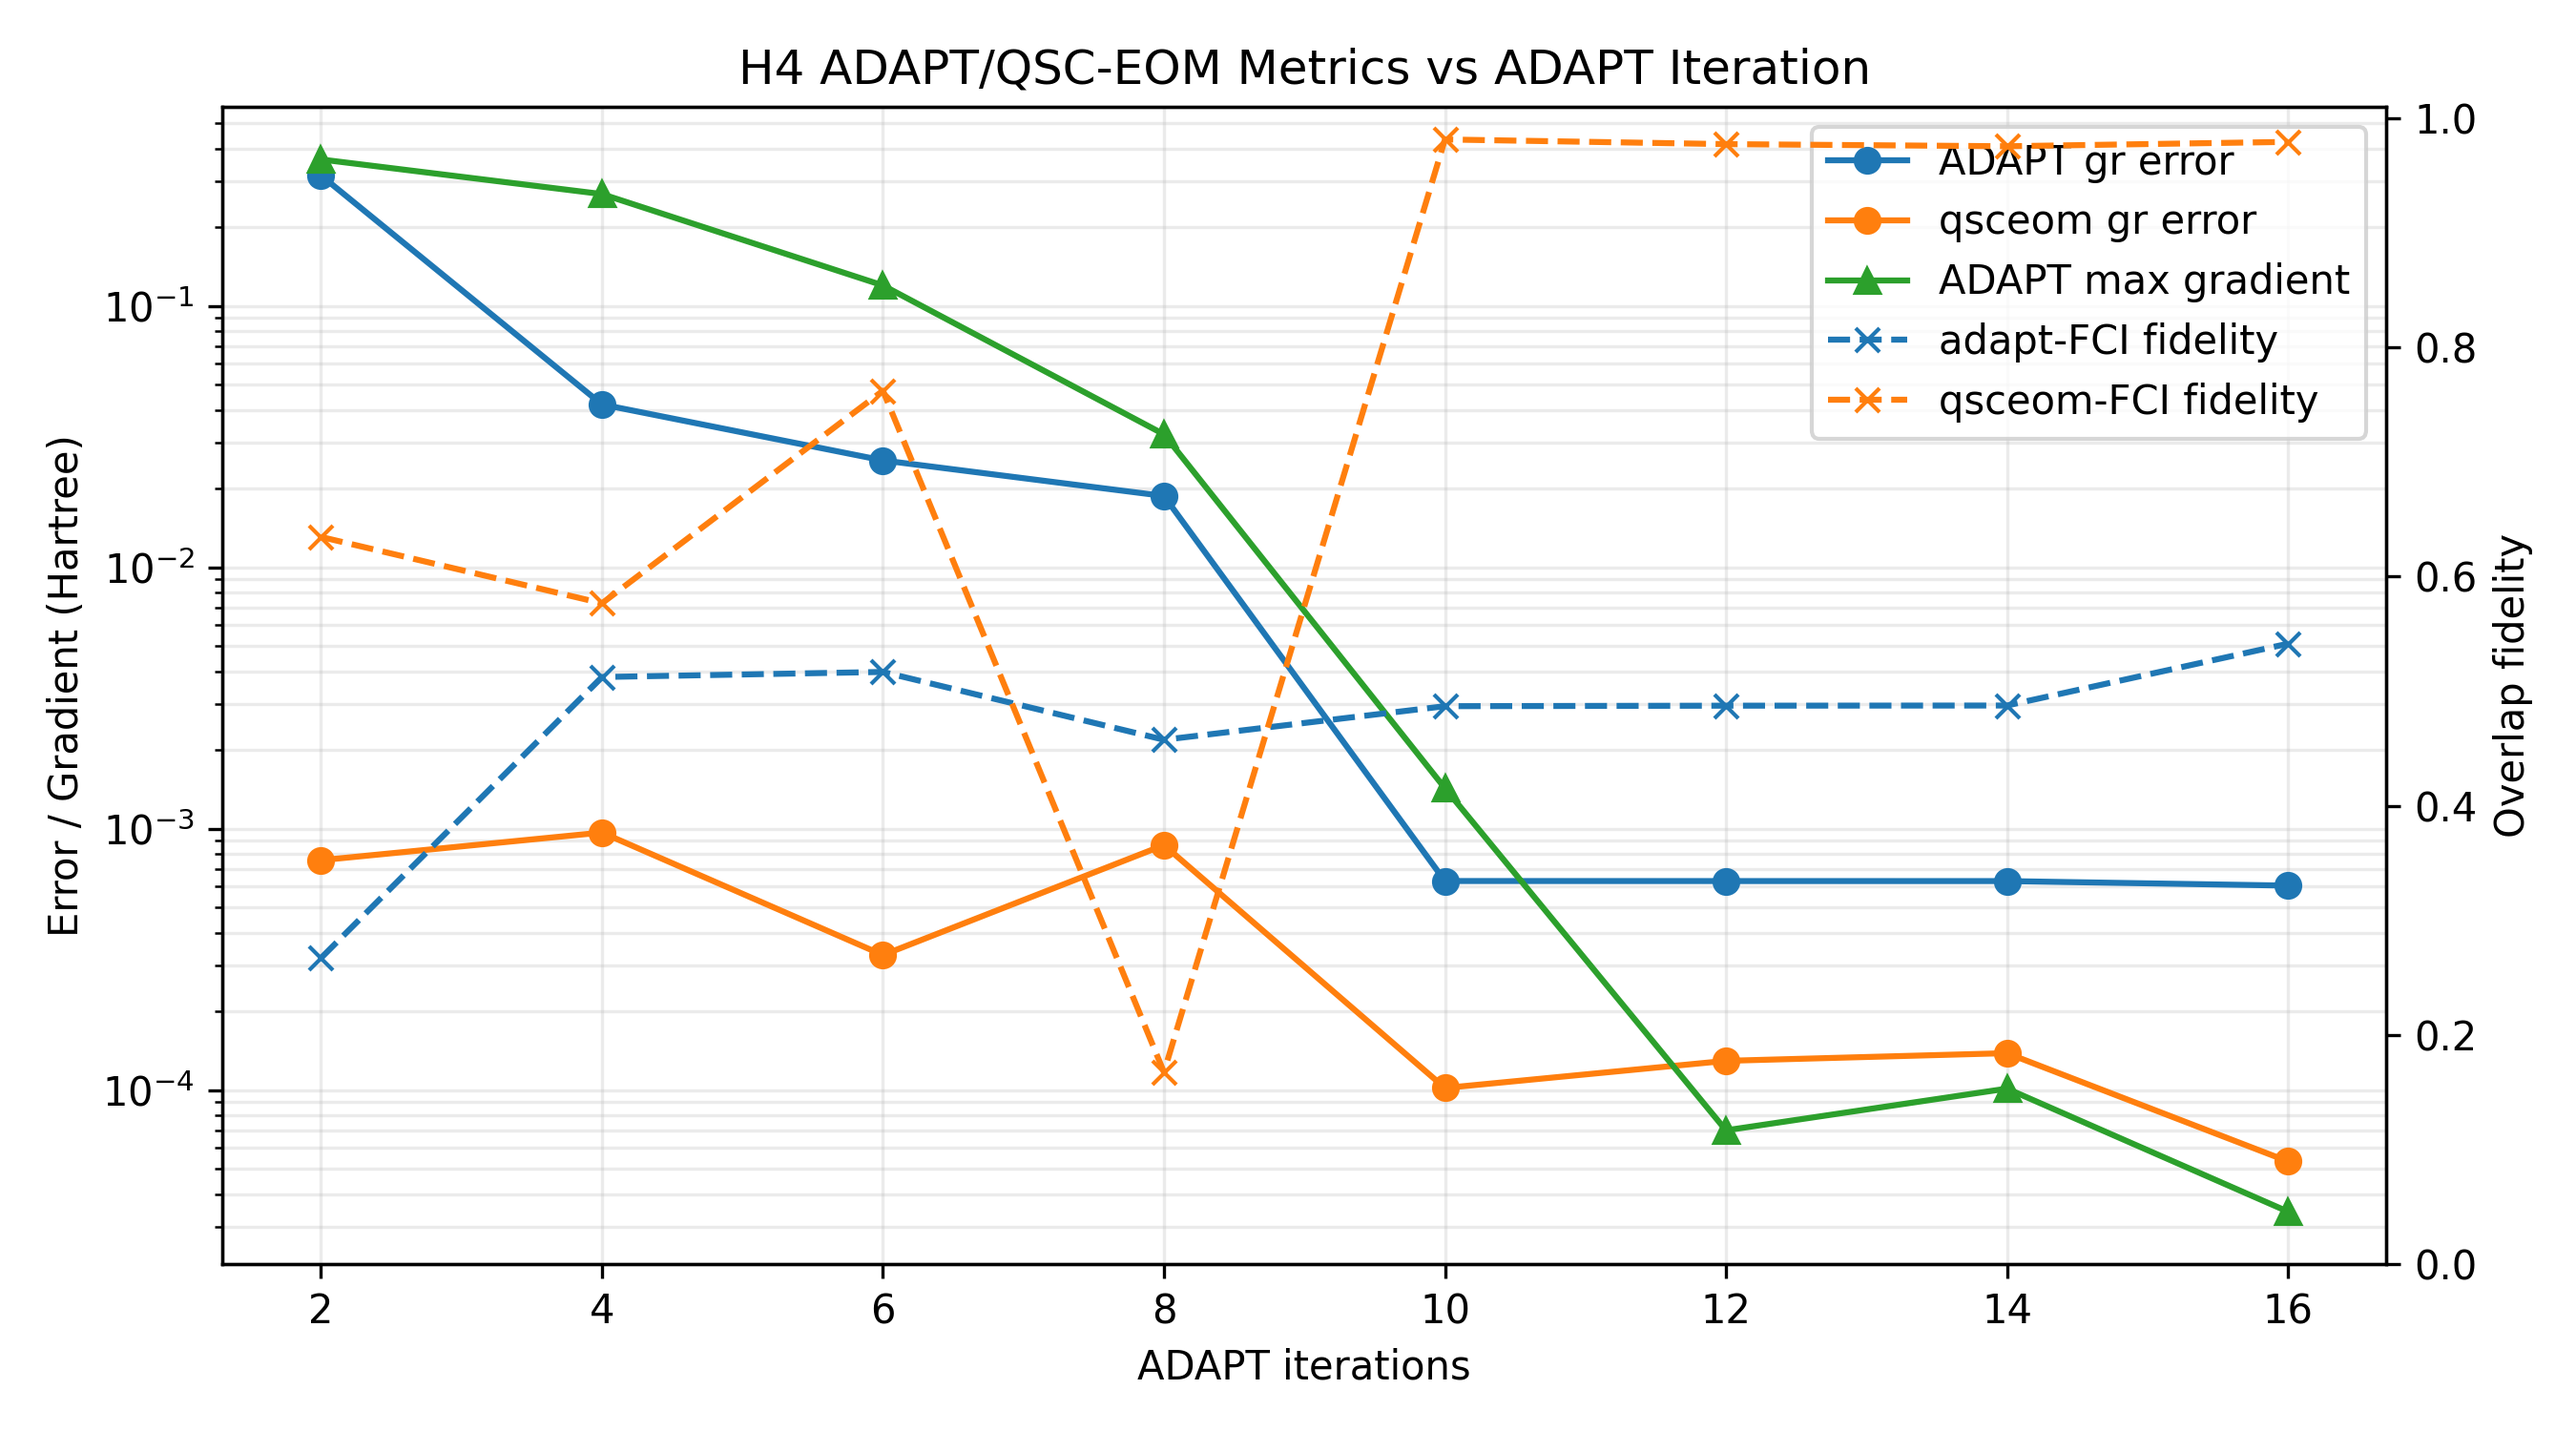
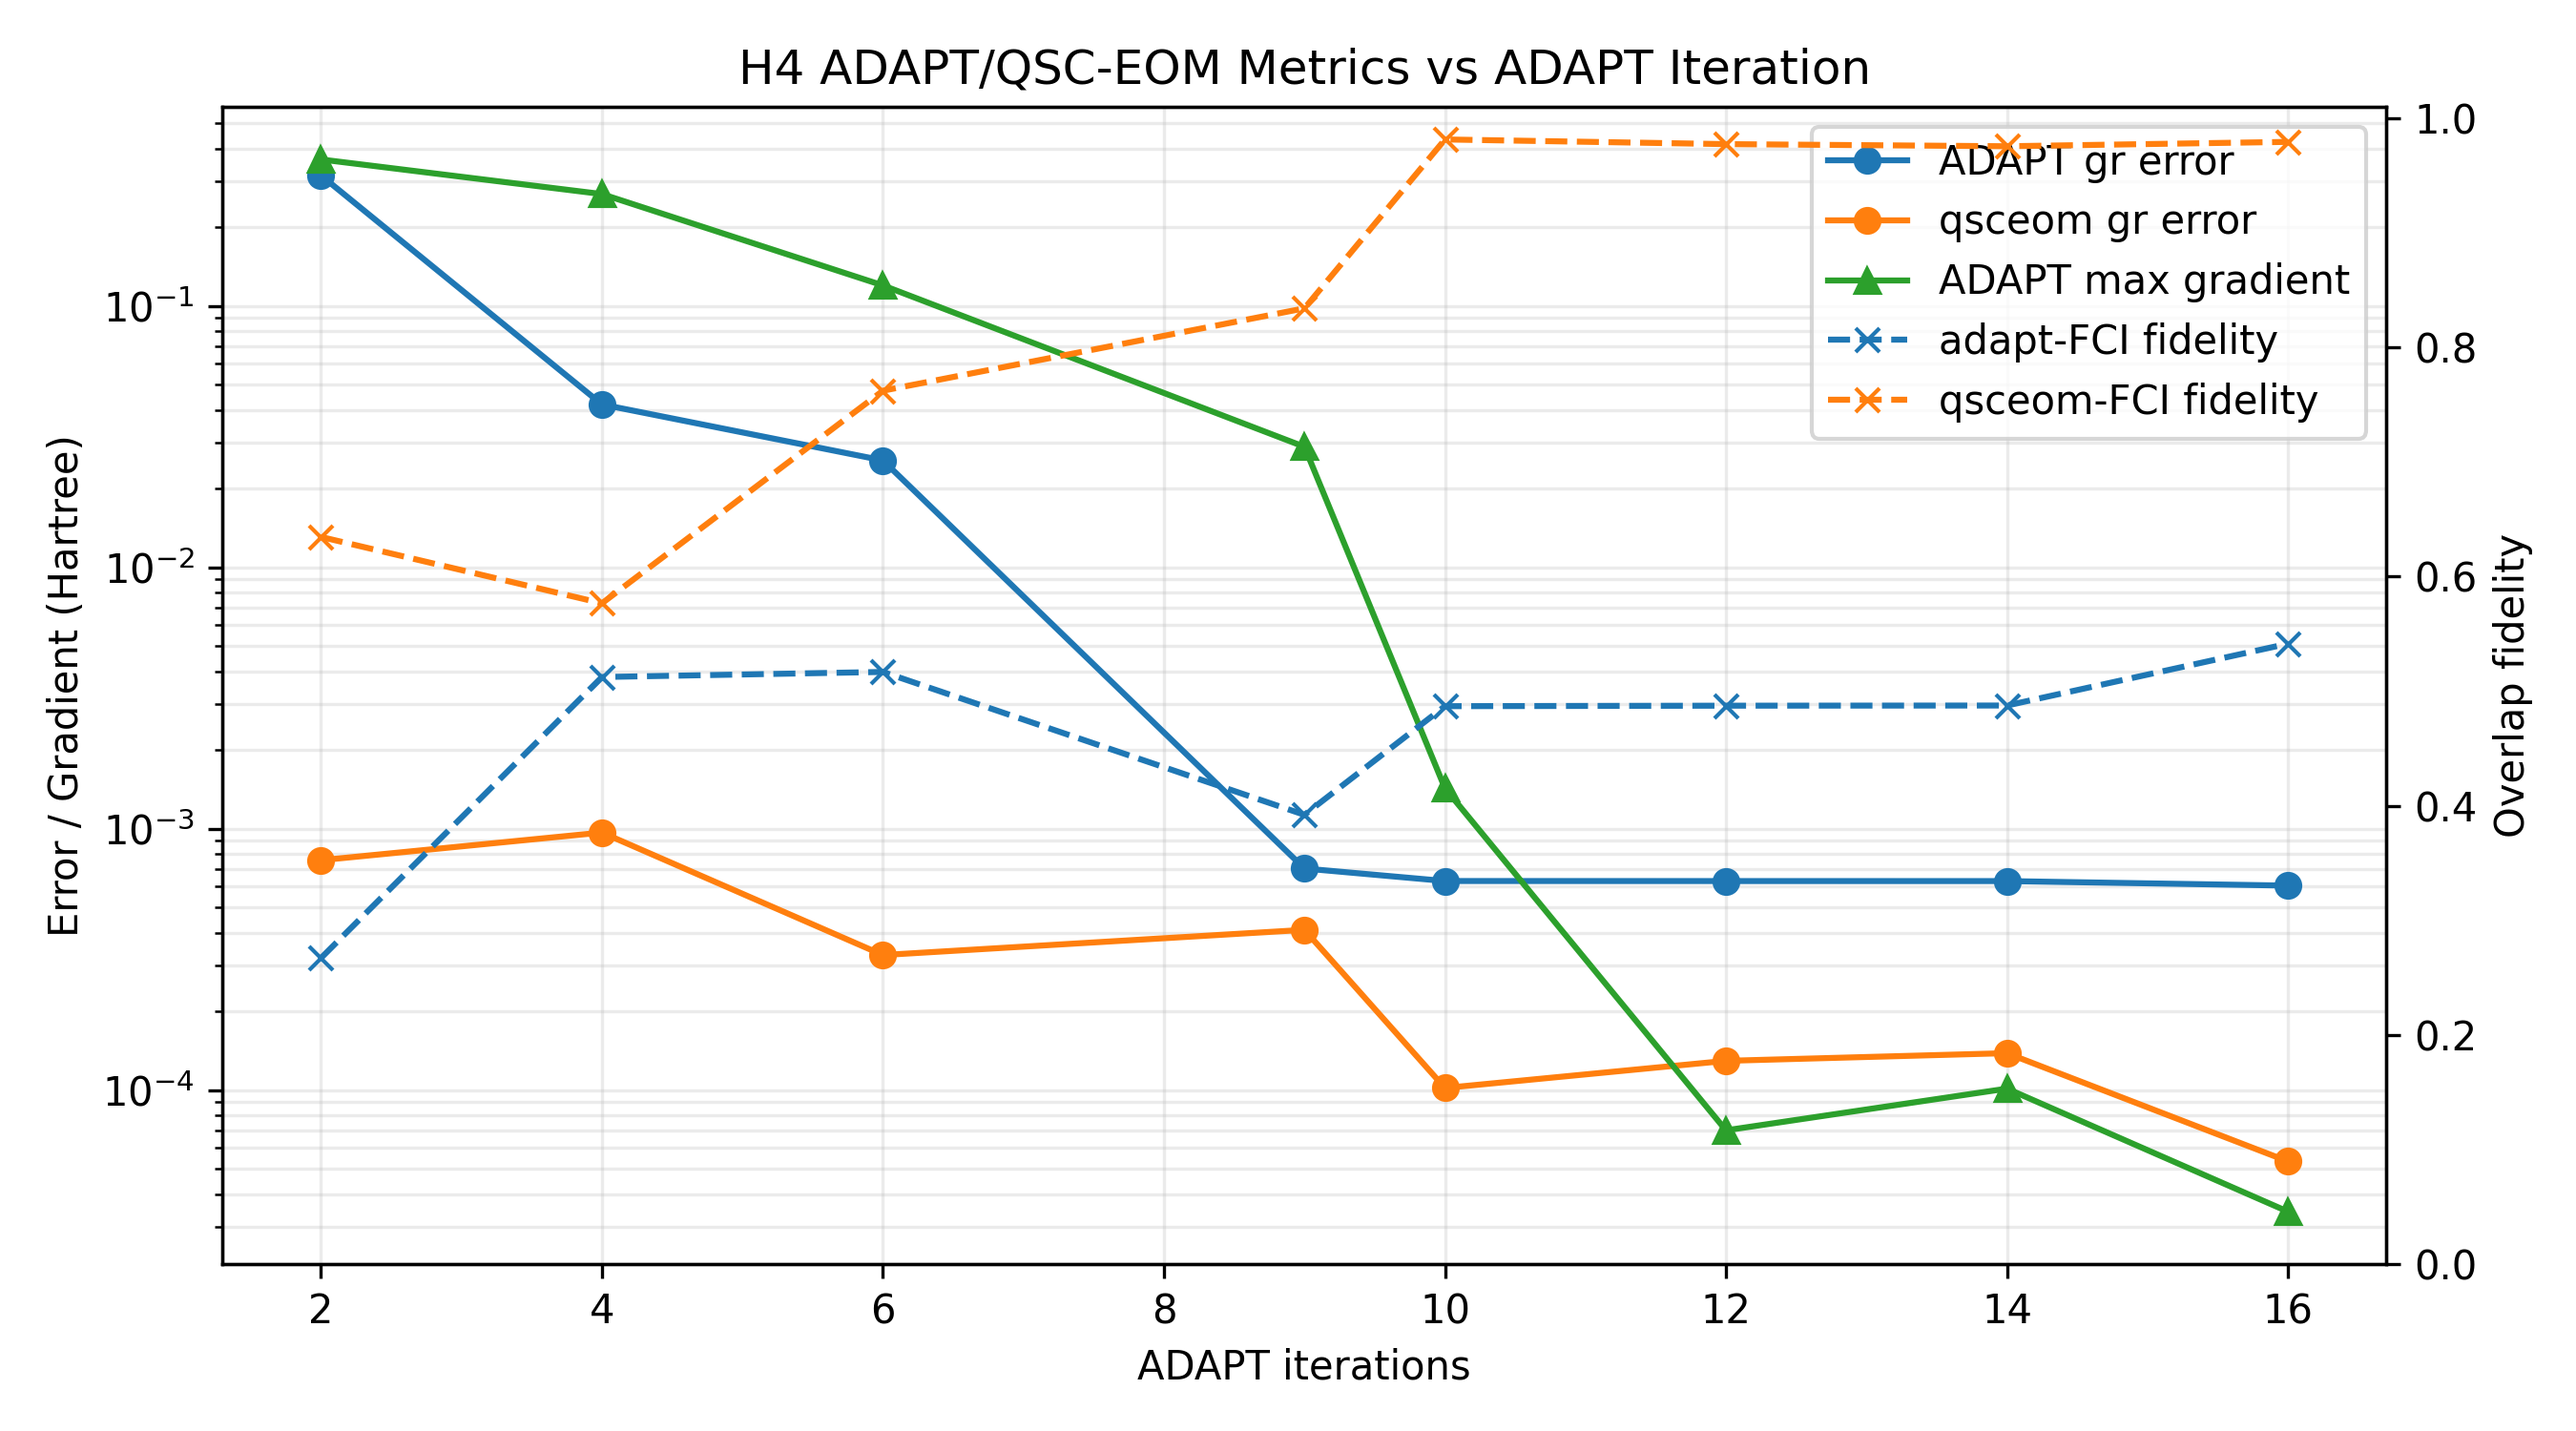
save

diff --git a/qsceom/ground state/examples/H4/run_h4.py b/qsceom/ground state/examples/H4/run_h4.py
@@ -44,7 +44,7 @@ def build_parser():
         "--adapt-it",
         type=int,
         nargs="+",
-        default=[2, 4, 6, 8, 10, 12, 14, 16],
+        default=[2, 4, 6, 9, 10, 12, 14, 16],
         help="One or more ADAPT iteration counts to run (e.g. --adapt-it 2 3 4).",
     )
     parser.add_argument(
@@ -291,30 +291,26 @@ def _build_qsceom_state_from_vec(
     return qsceom_state
 
 
-def _compute_qsceom_fci_excited_fidelities(
+def _compute_fci_overlaps_with_qsceom_state(
     params,
     ash_excitation,
-    qsceom_eigvecs,
+    qsceom_vec,
     overlap_context,
-    n_excited_states=5,
 ):
     np = overlap_context["np"]
     fci_states = overlap_context["fci_states"]
-    qsceom_vecs = np.asarray(qsceom_eigvecs, dtype=complex)
-
-    available_states = min(qsceom_vecs.shape[1], fci_states.shape[1])
-    max_excited_index = min(n_excited_states, max(available_states - 1, 0))
+    available_states = fci_states.shape[1]
+    qsceom_state = _build_qsceom_state_from_vec(
+        params=params,
+        ash_excitation=ash_excitation,
+        qsceom_vec=qsceom_vec,
+        overlap_context=overlap_context,
+    )
 
     fidelities = []
-    for state_idx in range(1, max_excited_index + 1):
+    for state_idx in range(available_states):
         fci_target_state = np.asarray(fci_states[:, state_idx], dtype=complex)
         fci_target_state /= np.linalg.norm(fci_target_state)
-        qsceom_state = _build_qsceom_state_from_vec(
-            params=params,
-            ash_excitation=ash_excitation,
-            qsceom_vec=qsceom_vecs[:, state_idx],
-            overlap_context=overlap_context,
-        )
         fidelity = float(abs(np.vdot(fci_target_state, qsceom_state)) ** 2)
         fidelities.append((state_idx, fidelity))
 
@@ -444,7 +440,7 @@ def main():
     adapt_max_gradients = []
     adapt_fidelities = []
     qsceom_fidelities = []
-    qsceom_excited_fidelities_at_iter8 = None
+    qsceom0_fci_overlaps_at_iter8 = None
     for adapt_it in args.adapt_it:
         params, ash_excitation, energies, adapt_gradients = adapt_vqe(
             symbols=symbols,
@@ -488,12 +484,11 @@ def main():
                 overlap_context=overlap_context,
             )
             if int(adapt_it) == 8:
-                qsceom_excited_fidelities_at_iter8 = _compute_qsceom_fci_excited_fidelities(
+                qsceom0_fci_overlaps_at_iter8 = _compute_fci_overlaps_with_qsceom_state(
                     params=params,
                     ash_excitation=ash_excitation,
-                    qsceom_eigvecs=eigvecs,
+                    qsceom_vec=eigvecs[:, 0],
                     overlap_context=overlap_context,
-                    n_excited_states=5,
                 )
         else:
             qsceom_overlap_fidelity = None
@@ -551,18 +546,18 @@ def main():
         ]
         reports.append("\n".join(fci_lines))
 
-    if qsceom_excited_fidelities_at_iter8 is not None:
-        if qsceom_excited_fidelities_at_iter8:
+    if qsceom0_fci_overlaps_at_iter8 is not None:
+        if qsceom0_fci_overlaps_at_iter8:
             excited_fidelity_summary = ", ".join(
-                f"excited state {state_idx}: {fidelity}"
-                for state_idx, fidelity in qsceom_excited_fidelities_at_iter8
+                f"state {state_idx}: {fidelity}"
+                for state_idx, fidelity in qsceom0_fci_overlaps_at_iter8
             )
         else:
             excited_fidelity_summary = (
                 "unavailable (no excited states in the current active-space basis)"
             )
         reports.append(
-            "qsceom-FCI overlap fidelity for first 5 FCI excited states at ADAPT iteration 8: "
+            "<fci_x|qsceom_0> overlap fidelity for all available FCI states at ADAPT iteration 8: "
             f"{excited_fidelity_summary}"
         )
 
